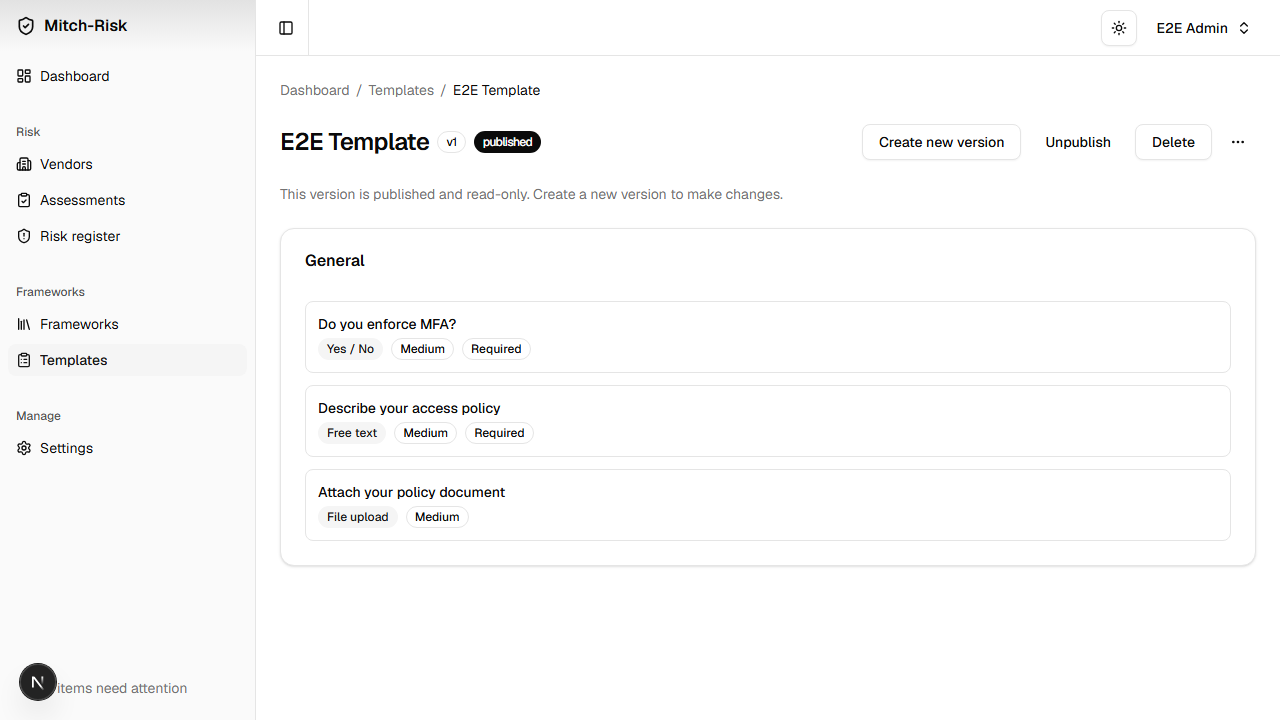
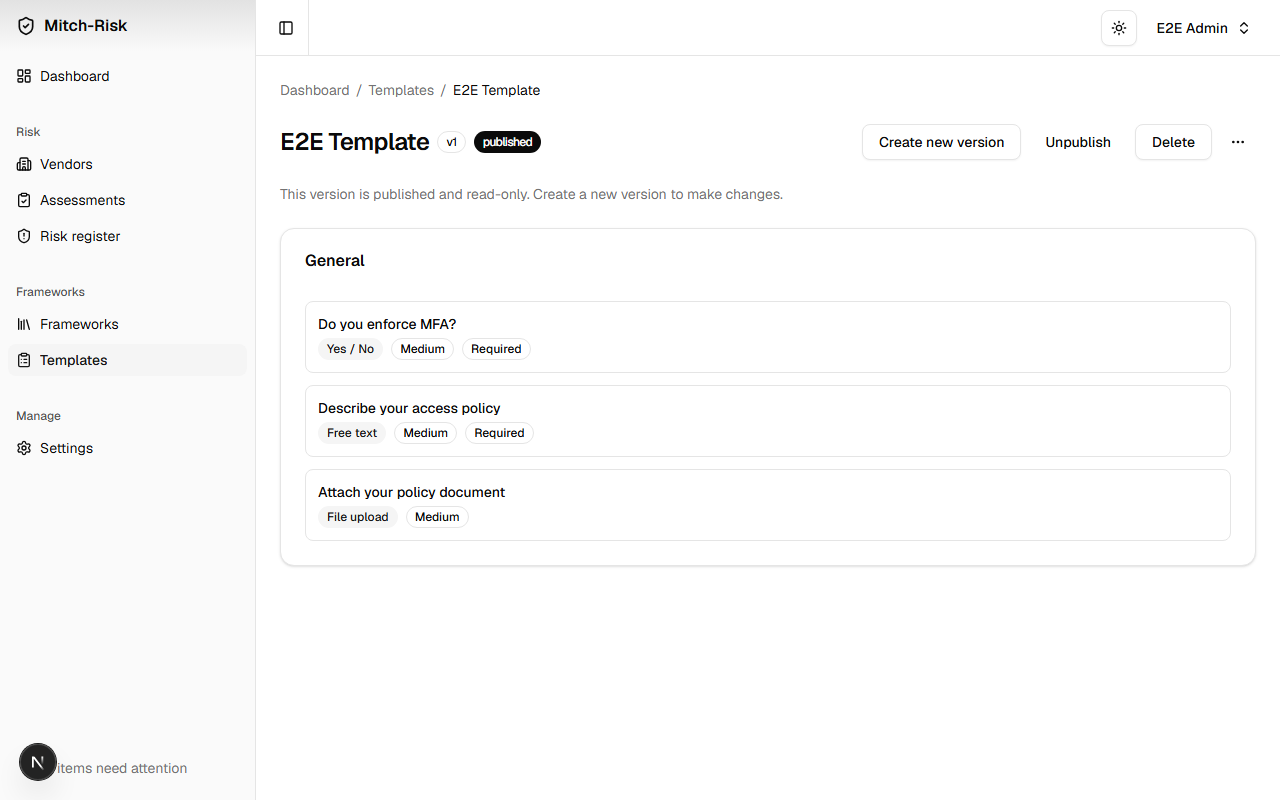
docs: recapture screenshots at 1280x800 viewport (landscape, single screen)

diff --git a/e2e/screenshots.spec.ts b/e2e/screenshots.spec.ts
@@ -4,6 +4,8 @@ import { E2E_ADMIN_EMAIL, E2E_ADMIN_PASSWORD } from "./global-setup";
 
 const SCREENSHOT_DIR = "docs/screenshots";
 
+test.use({ viewport: { width: 1280, height: 800 } });
+
 async function signInAsAdmin(page: import("@playwright/test").Page) {
   await page.goto("/login");
   await page.getByLabel("Email").fill(E2E_ADMIN_EMAIL);
@@ -20,13 +22,12 @@ test("capture dashboard screenshot", async ({ page }) => {
   await page.waitForTimeout(3000);
   await page.screenshot({
     path: `${SCREENSHOT_DIR}/dashboard.png`,
-    fullPage: true,
   });
 });
 
 test("capture vendor detail screenshot", async ({ page }) => {
   await signInAsAdmin(page);
-  await page.getByRole("link", { name: "Vendors" }).click();
+  await page.locator('[data-sidebar="menu-button"]').filter({ hasText: "Vendors" }).click();
   await page.waitForURL("**/vendors");
   await page.waitForFunction(
     () => !document.body.textContent?.includes("Loading..."),
@@ -43,13 +44,12 @@ test("capture vendor detail screenshot", async ({ page }) => {
   await page.waitForTimeout(2000);
   await page.screenshot({
     path: `${SCREENSHOT_DIR}/vendor-detail.png`,
-    fullPage: true,
   });
 });
 
 test("capture assessment review screenshot", async ({ page }) => {
   await signInAsAdmin(page);
-  await page.getByRole("link", { name: "Assessments" }).click();
+  await page.locator('[data-sidebar="menu-button"]').filter({ hasText: "Assessments" }).click();
   await page.waitForURL("**/assessments");
   await page.waitForFunction(
     () => !document.body.textContent?.includes("Loading..."),
@@ -62,13 +62,12 @@ test("capture assessment review screenshot", async ({ page }) => {
   await page.waitForTimeout(2000);
   await page.screenshot({
     path: `${SCREENSHOT_DIR}/assessment-review.png`,
-    fullPage: true,
   });
 });
 
 test("capture template builder screenshot", async ({ page }) => {
   await signInAsAdmin(page);
-  await page.getByRole("link", { name: "Templates" }).click();
+  await page.locator('[data-sidebar="menu-button"]').filter({ hasText: "Templates" }).click();
   await page.waitForURL("**/templates");
   await page.waitForFunction(
     () => !document.body.textContent?.includes("Loading..."),
@@ -81,7 +80,6 @@ test("capture template builder screenshot", async ({ page }) => {
   await page.waitForTimeout(2000);
   await page.screenshot({
     path: `${SCREENSHOT_DIR}/template-builder.png`,
-    fullPage: true,
   });
 });
 
@@ -94,6 +92,5 @@ test("capture settings screenshot", async ({ page }) => {
   await page.waitForTimeout(2000);
   await page.screenshot({
     path: `${SCREENSHOT_DIR}/settings.png`,
-    fullPage: true,
   });
 });
